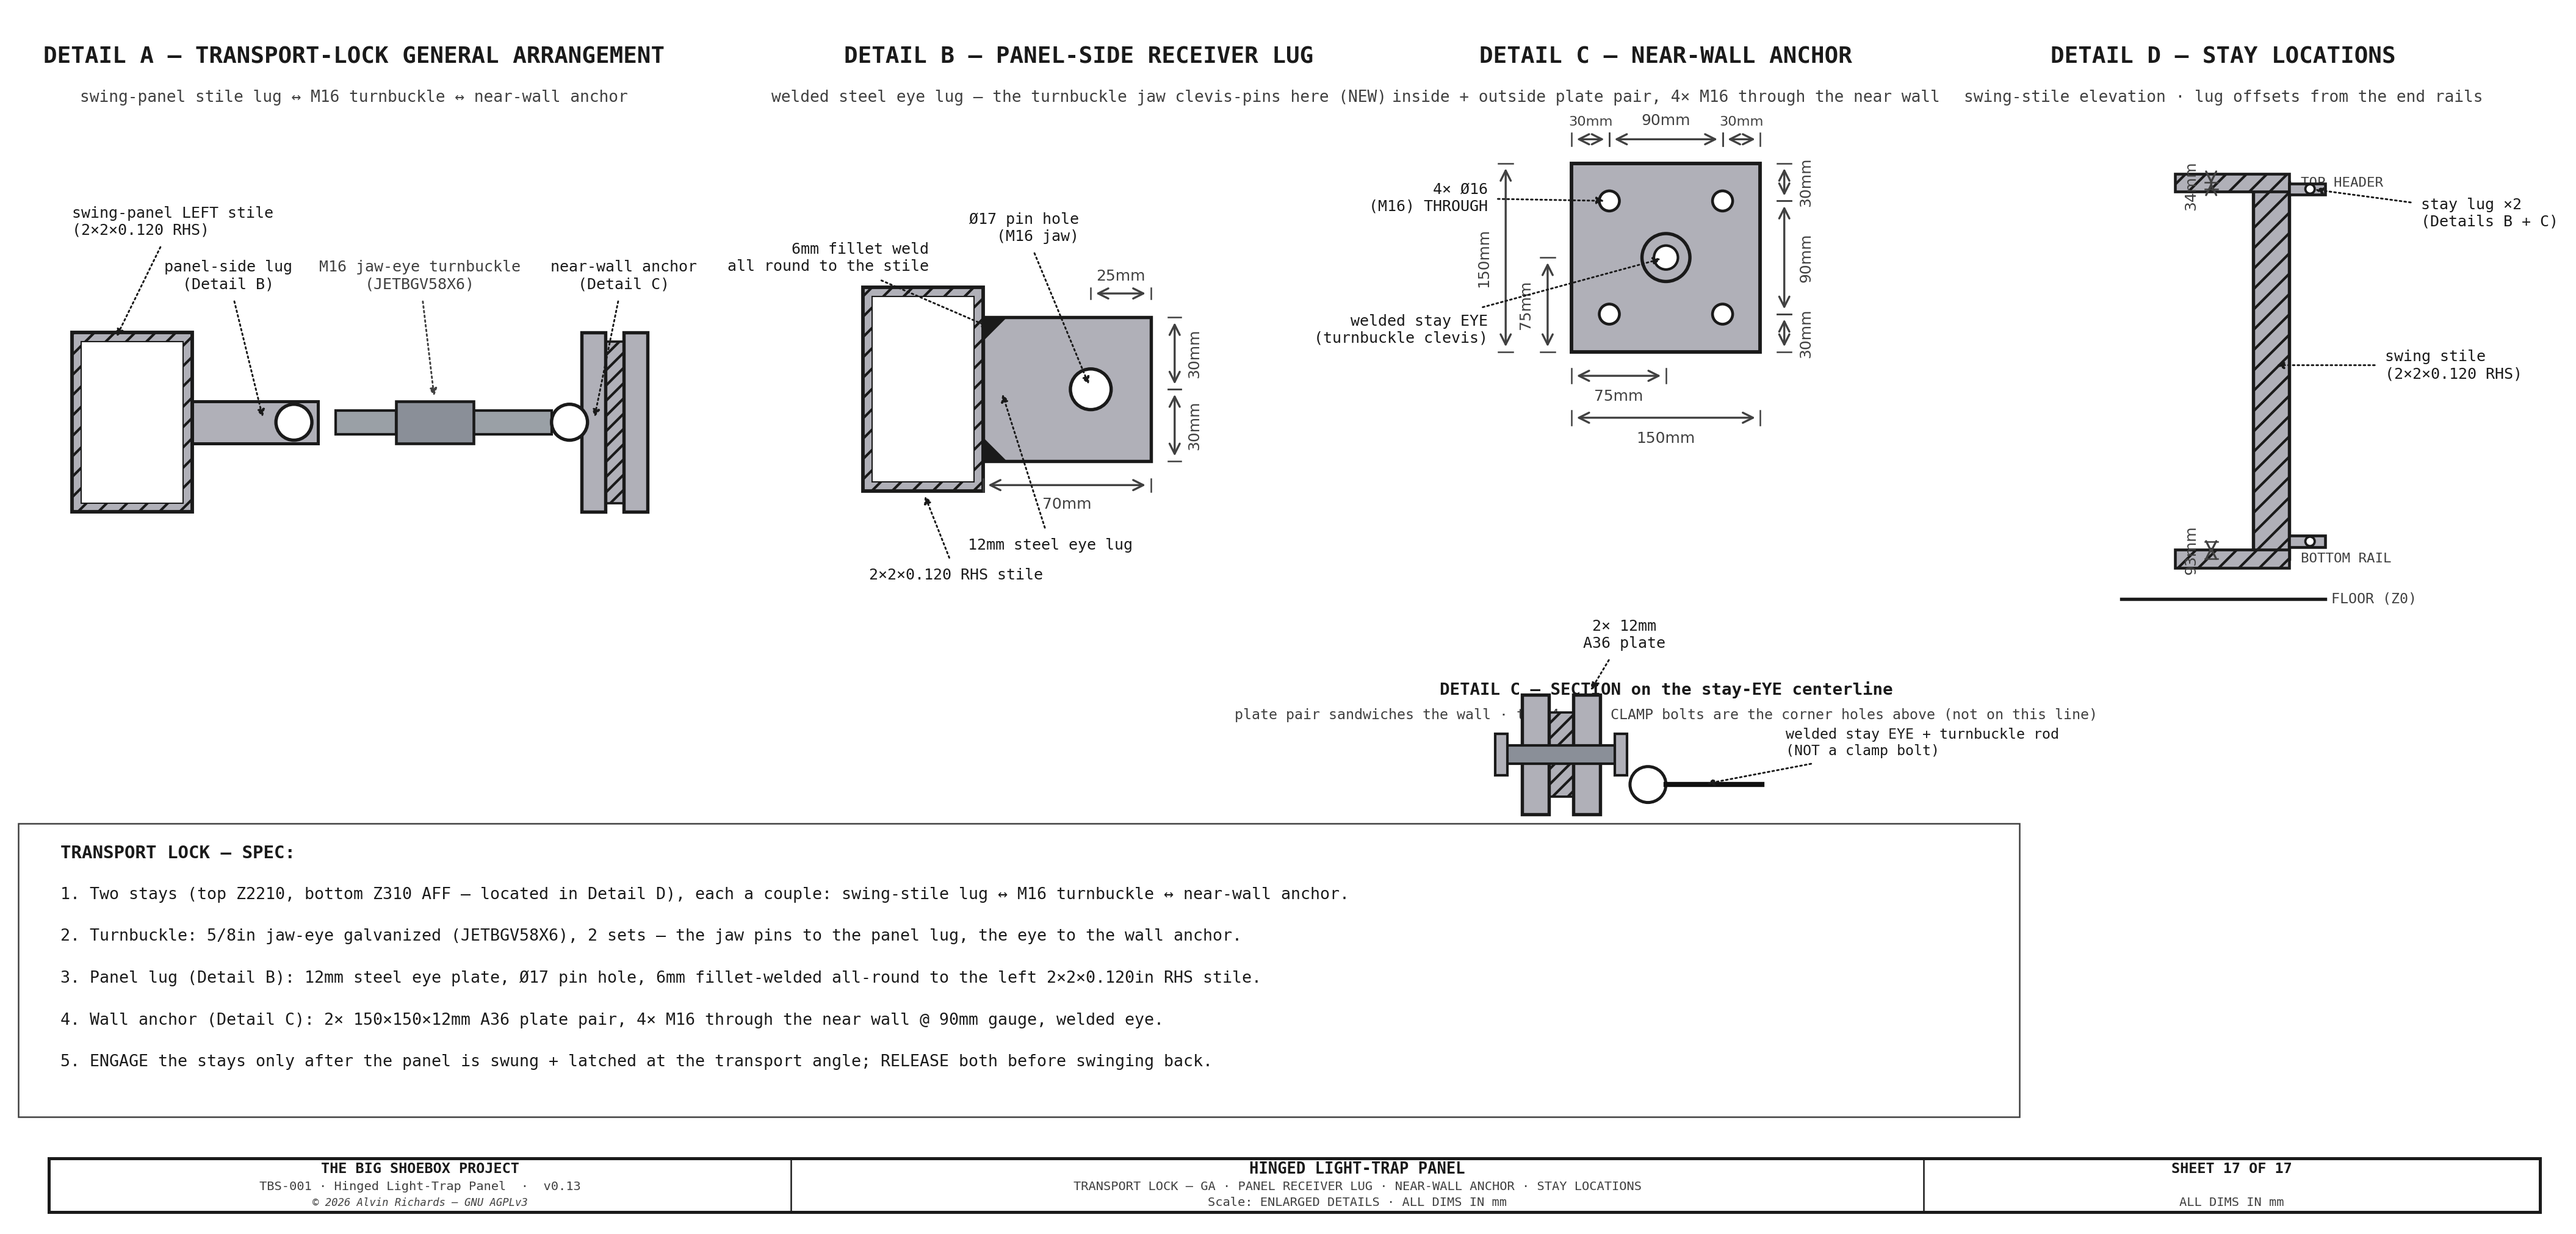
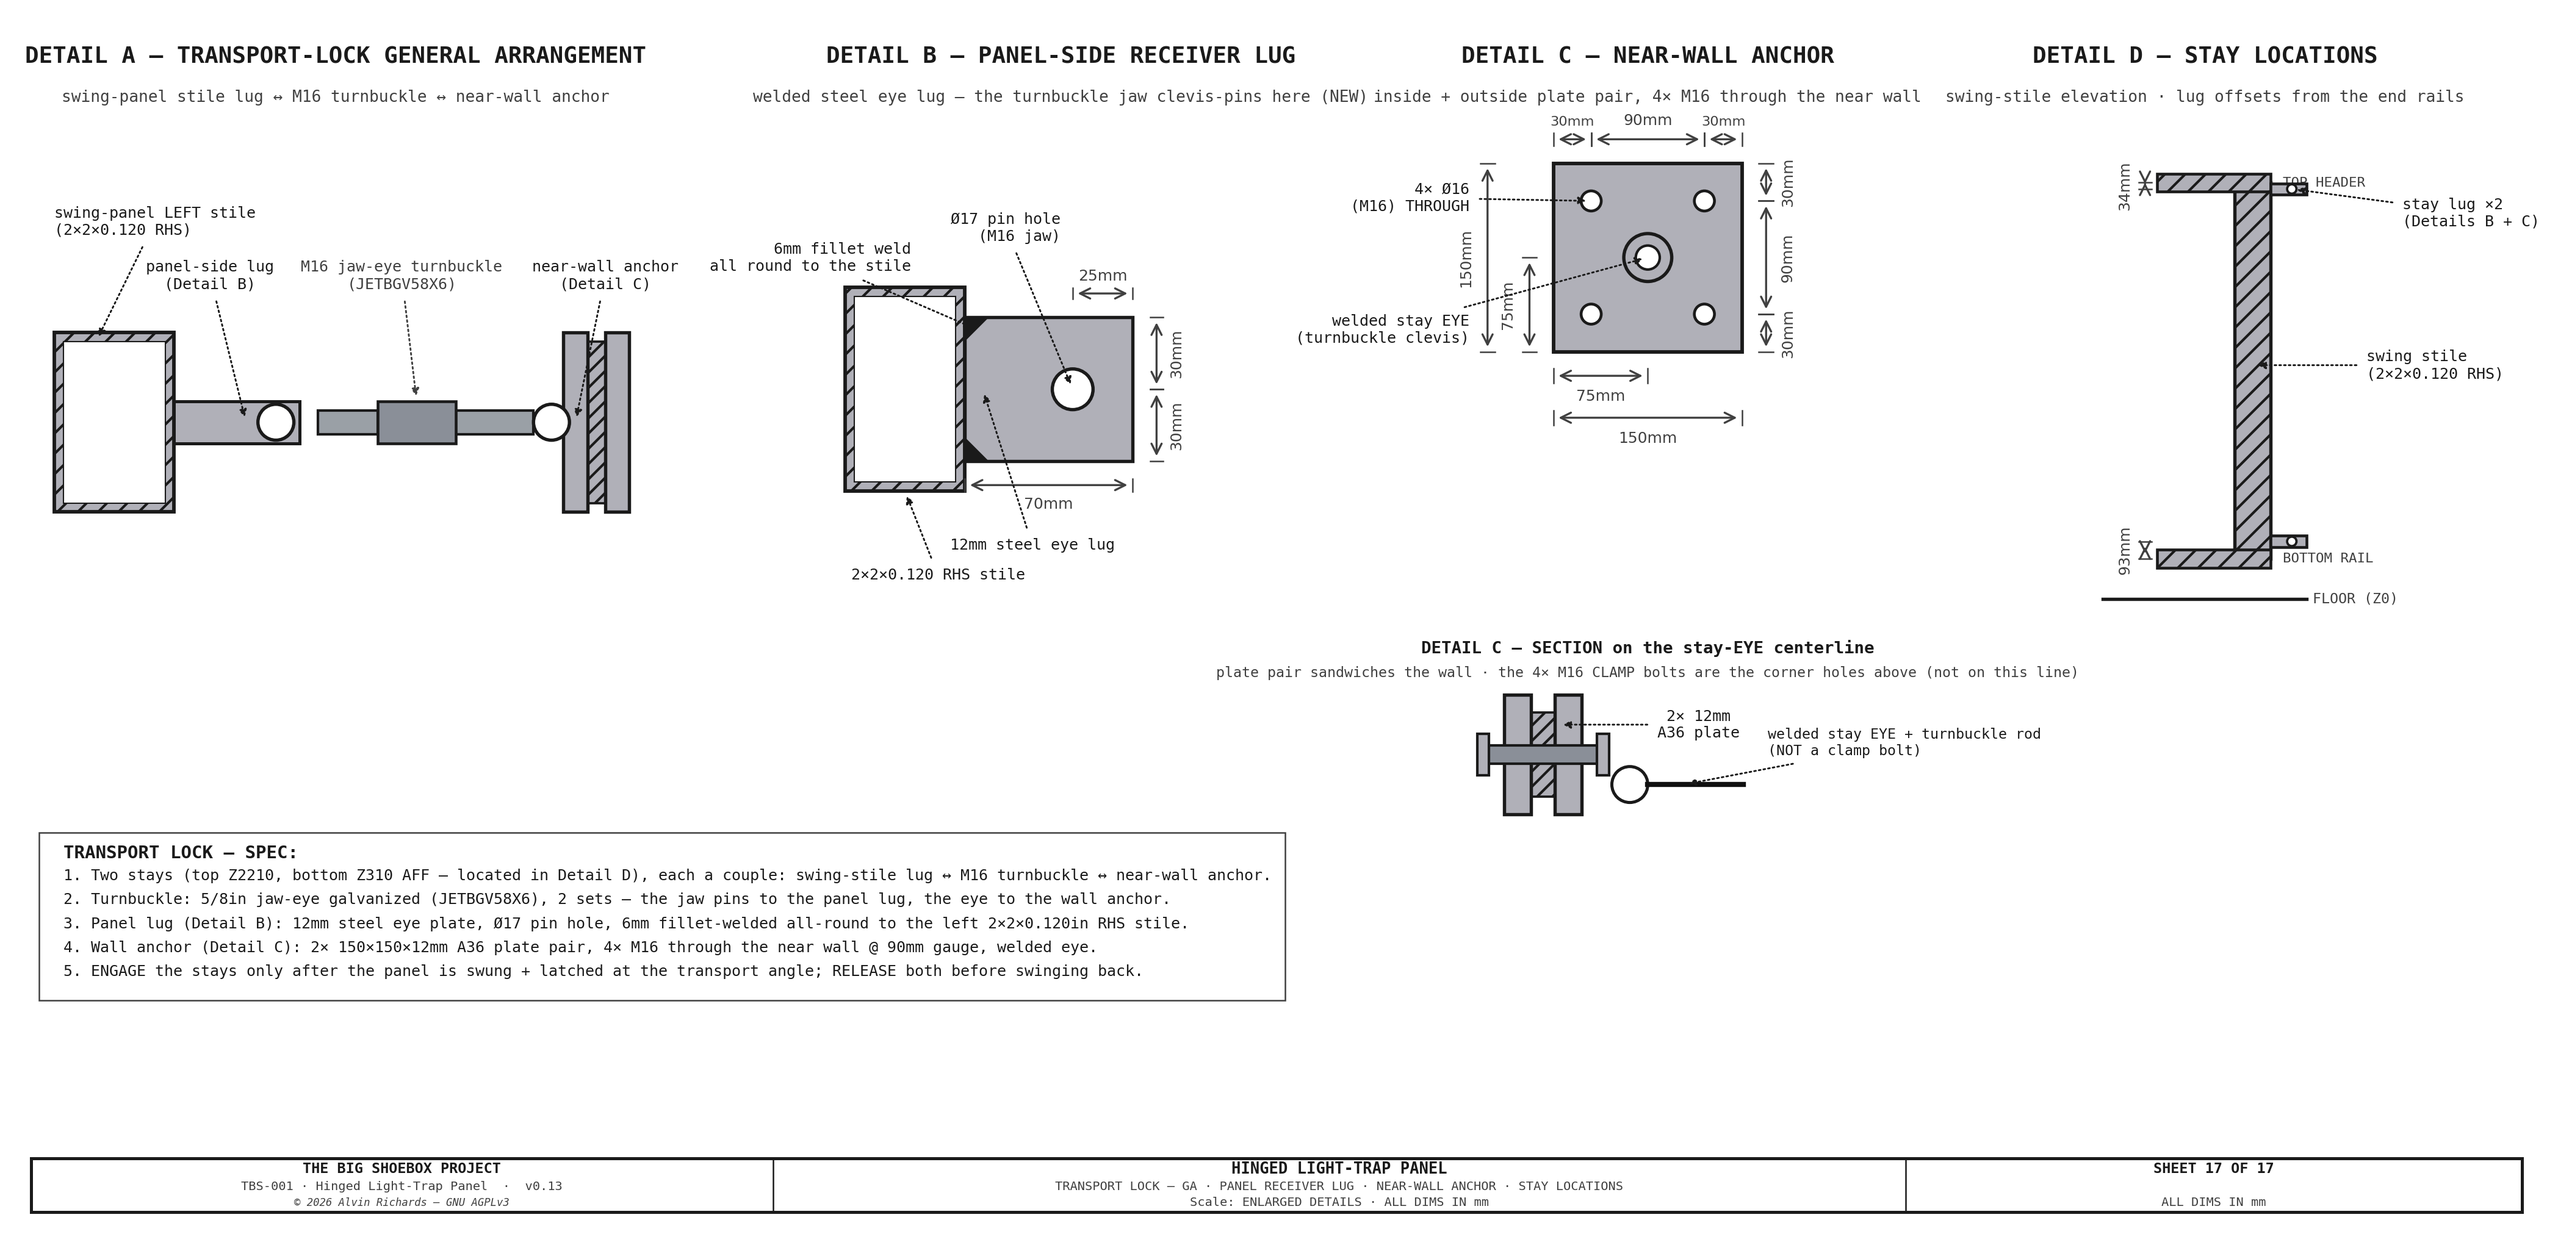
Tidy labels

diff --git a/src/generators/generate_hingepanel_diagram.py b/src/generators/generate_hingepanel_diagram.py
@@ -2886,8 +2886,8 @@ def sheet17():
     leader(ax, (cx - hbg, cy + hbg), (cx - hpw - 28, cy + 20), f"4× Ø{LT_STAY_BOLT_D}\n(M16) THROUGH", col=C_OUT, fs=6, ha="right")
     leader(ax, (cx, cy), (cx - hpw - 28, cy - 24), "welded stay EYE\n(turnbuckle clevis)", col=C_OUT, fs=6, ha="right")
     px, syd = Cx + 44, -46
-    ax.text(Cx + 92, -6, "DETAIL C — SECTION on the stay-EYE centerline", ha="center", fontsize=6.6, fontweight="bold", color=C_OUT, **FONT)
-    ax.text(Cx + 92, -14, "plate pair sandwiches the wall · the 4× M16 CLAMP bolts are the corner holes above (not on this line)", ha="center", fontsize=5.6, color=C_DIM, **FONT)
+    ax.text(Cx + 92, 8, "DETAIL C — SECTION on the stay-EYE centerline", ha="center", fontsize=6.6, fontweight="bold", color=C_OUT, **FONT)
+    ax.text(Cx + 92, 0, "plate pair sandwiches the wall · the 4× M16 CLAMP bolts are the corner holes above (not on this line)", ha="center", fontsize=5.6, color=C_DIM, **FONT)
     ax.add_patch(Rectangle((px, syd), 9, 40, fc=C_STEEL, ec=C_OUT, lw=1.3, zorder=5))
     ax.add_patch(Rectangle((px + 9, syd + 6), 8, 28, fc=C_STEEL, ec=C_OUT, lw=0.9, hatch="////", zorder=4))
     ax.add_patch(Rectangle((px + 17, syd), 9, 40, fc=C_STEEL, ec=C_OUT, lw=1.3, zorder=5))
@@ -2896,7 +2896,7 @@ def sheet17():
     ax.add_patch(Rectangle((px + 31, syd + 13), 4, 14, fc=C_STEEL, ec=C_OUT, lw=1.0, zorder=8))
     ax.add_patch(Circle((px + 42, syd + 10), 6, fc=BG, ec=C_OUT, lw=1.2, zorder=6))
     ax.plot([px + 48, px + 80], [syd + 10, syd + 10], color="#101010", lw=2.0, zorder=6)
-    leader(ax, (px + 22, syd + 40), (px + 34, syd + 60), f"2× {LT_STAY_PLATE_T}mm\nA36 plate", col=C_OUT, fs=6)
+    leader(ax, (px + 18, syd + 30), (px + 65, syd + 30), f"2× {LT_STAY_PLATE_T}mm\nA36 plate", col=C_OUT, fs=6)
     leader(ax, (px + 60, syd + 10), (px + 88, syd + 24), "welded stay EYE + turnbuckle rod\n(NOT a clamp bolt)", col=C_OUT, fs=5.6, ha="left")
 
     # ═══ DETAIL D — STAY LOCATIONS (swing-stile elevation · heights from the floor) ═══
@@ -2921,8 +2921,8 @@ def sheet17():
         ax.add_patch(Rectangle((stx + stw, _dz(z) - _lh / 2), 12, _lh, fc=C_STEEL, ec=C_OUT, lw=1.1, zorder=5))
         ax.add_patch(Circle((stx + stw + 7, _dz(z)), min(2.2, _lh * 0.42), fc=BG, ec=C_OUT, lw=0.9, zorder=6))
     # lug positions dimensioned from the RAIL they weld near: bottom lug UP off the bottom rail, top lug DOWN off the header
-    draw_dim_v(ax, stx - 14, _dz(PANEL_FLOOR_GAP), _dz(LT_STAY_Z[0]), f"{int(LT_STAY_Z[0] - PANEL_FLOOR_GAP)}mm", fs=6, offset=7, right=False)
-    draw_dim_v(ax, stx - 14, _dz(LT_STAY_Z[1]), _dz(BRACE_Z_TOP), f"{int(BRACE_Z_TOP - LT_STAY_Z[1])}mm", fs=6, offset=7, right=False)
+    draw_dim_v(ax, stx - 30, _dz(PANEL_FLOOR_GAP), _dz(LT_STAY_Z[0]), f"{int(LT_STAY_Z[0] - PANEL_FLOOR_GAP)}mm", fs=6, offset=7, right=False)
+    draw_dim_v(ax, stx - 30, _dz(LT_STAY_Z[1]), _dz(BRACE_Z_TOP), f"{int(BRACE_Z_TOP - LT_STAY_Z[1])}mm", fs=6, offset=7, right=False)
     _midz = (_dz(LT_STAY_Z[0]) + _dz(LT_STAY_Z[1])) / 2
     leader(ax, (stx + stw / 2, _midz), (stx + stw + 32, _midz), "swing stile\n(2×2×0.120 RHS)", col=C_OUT, fs=6, ha="left")
     leader(ax, (stx + stw + 7, _dz(LT_STAY_Z[1])), (stx + stw + 44, _dz(LT_STAY_Z[1]) - 8), "stay lug ×2\n(Details B + C)", col=C_OUT, fs=6, ha="left")
@@ -2934,7 +2934,7 @@ def sheet17():
         f"3. Panel lug (Detail B): {LT_STAY_LUG_T}mm steel eye plate, Ø{LT_STAY_LUG_HOLE} pin hole, 6mm fillet-welded all-round to the left 2×2×0.120in RHS stile.",
         f"4. Wall anchor (Detail C): 2× {2*LT_STAY_PLATE_HW}×{2*LT_STAY_PLATE_HW}×{LT_STAY_PLATE_T}mm A36 plate pair, 4× M16 through the near wall @ {2*LT_STAY_BOLT_OFF}mm gauge, welded eye.",
         "5. ENGAGE the stays only after the panel is swung + latched at the transport angle; RELEASE both before swinging back.",
-    ], 8, -56, spacing=14, fs=6.4, title_fs=7.0, color=C_OUT, title_color=C_OUT, width=640, wrap=150, border_color=C_DIM, font=FONT)
+    ], 15, -56, spacing=8, fs=6, title_fs=7.0, color=C_OUT, title_color=C_OUT, width=400, wrap=150, border_color=C_DIM, font=FONT)
 
     title_block(ax, "SHEET 17 OF 17",
                 drawing_title="HINGED LIGHT-TRAP PANEL",
